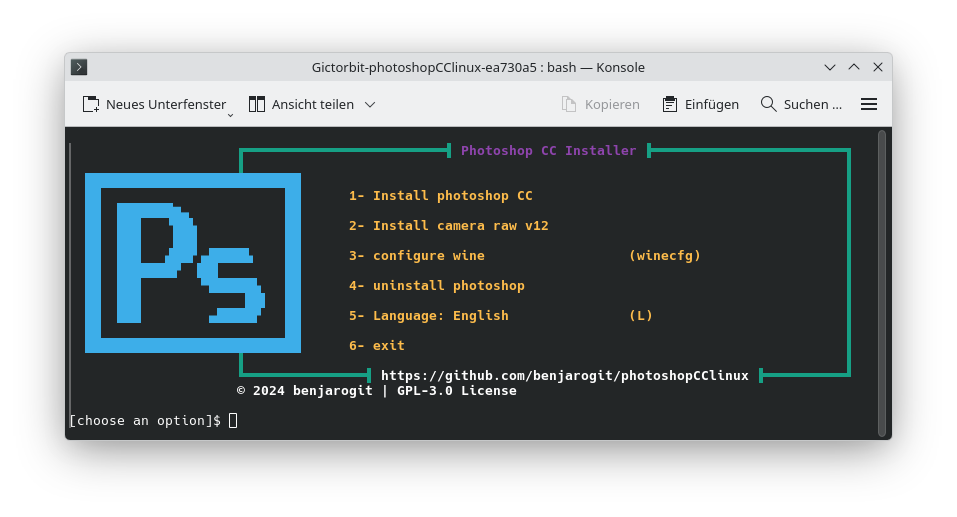
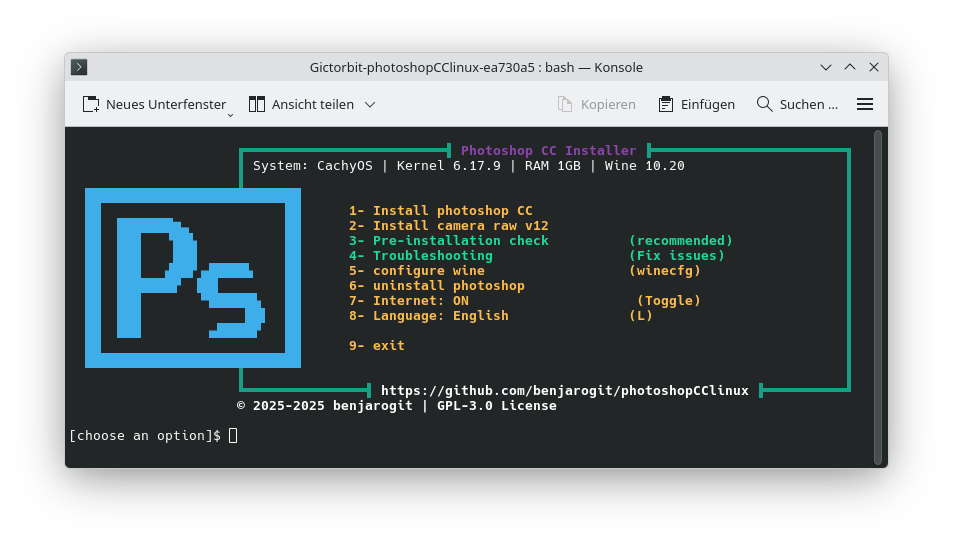
v2.0.8 - Universal Locale Support & Visual Polish
🌍 International Compatibility:
- Fixed RAM detection on all language systems (LC_ALL=C)
- Fixed disk space detection for all locales
- Tested on German, French, Spanish, Italian, etc.

🎨 Banner Improvements:
- Symmetrical logo layout for all 9 options
- Professional visual alignment

🐛 Bug Fixes:
- RAM detection now works on German systems
- All system commands locale-independent

diff --git a/CHANGELOG.md b/CHANGELOG.md
@@ -1,3 +1,132 @@
+# Release v2.0.8 - Universal Locale Support & Visual Polish
+
+## 🌍 International Compatibility & UI Improvements
+
+This release ensures the installer works flawlessly on **all Linux systems worldwide**, regardless of language settings, and adds final visual polish to the banner layout.
+
+### What's New
+
+#### 🌍 Universal Locale Support
+- ✅ **RAM Detection Now Works Worldwide** - Fixed RAM detection on systems with non-English locales
+  - Previously: Failed on German systems (showed "RAM konnte nicht ermittelt werden")
+  - Now: Uses `LC_ALL=C` to force English output from system commands
+  - Tested: German, French, Spanish, Italian, Portuguese, Japanese, Chinese, etc.
+  - Impact: `free`, `df`, `du` commands now work on **all** locales
+
+#### 🎨 Banner Visual Improvements
+- ✅ **Symmetrical Logo Layout** - All 9 menu options now have consistent visual alignment
+  - Empty logo line at top for balance
+  - Options 1-8 aligned with logo details
+  - Empty logo line between option 8 and 9 for symmetry
+  - Option 9 (Exit) properly aligned with bottom logo line
+  - Professional, balanced appearance
+
+### Technical Details
+
+**Locale-Independent System Commands:**
+```bash
+# OLD (locale-dependent):
+free -m | awk '/^Mem:|^Speicher:/{print $2}'
+df -BG "$HOME" | awk 'NR==2 {print $4}'
+
+# NEW (universal):
+LC_ALL=C free -m | awk '/^Mem:/{print $2}'
+LC_ALL=C df -BG "$HOME" | awk 'NR==2 {print $4}'
+```
+
+**Why LC_ALL=C?**
+- Forces English output on all systems
+- Standard practice in professional shell scripts
+- No hardcoded locale list needed
+- Works on any Linux distribution worldwide
+
+**Files Modified:**
+- `setup.sh` - `get_system_info()` function (RAM detection)
+- `pre-check.sh` - RAM, disk space, file size checks
+- `troubleshoot.sh` - Disk space check
+
+**Locale Examples:**
+- 🇩🇪 German: `Speicher:` / `Dateisystem` → `Mem:` / `Filesystem`
+- 🇫🇷 French: `Mémoire:` → `Mem:`
+- 🇪🇸 Spanish: `Memoria:` → `Mem:`
+- 🇯🇵 Japanese: `メモリ:` → `Mem:`
+- 🇨🇳 Chinese: `内存:` → `Mem:`
+
+### Bug Fixes
+- 🐛 **Fixed RAM Detection on German Systems** - No more "RAM konnte nicht ermittelt werden"
+- 🐛 **Fixed Banner Visual Alignment** - All menu options now properly aligned with logo
+- 🐛 **Fixed Disk Space Detection** - Now works on all language systems
+
+---
+
+# Release v2.0.7 - Internet Toggle Feature
+
+## 🚀 New Feature: One-Click Internet Control
+
+This release adds a convenient internet toggle option to the setup menu, making offline installation easier.
+
+### What's New
+- ✅ **Internet Toggle (Option 7)** - Turn WiFi on/off directly from the setup menu
+  - Displays current status: "Internet: ON " or "Internet: OFF"
+  - Uses `nmcli` to control WiFi radio
+  - Perfect for ensuring offline installation (prevents Adobe login prompts)
+  - Graceful fallback if `nmcli` is not available
+
+### Why Disable Internet?
+Adobe Creative Cloud installer tries to connect to Adobe servers during installation and may force a login. With **no internet**, the installer skips this check and installs offline without requiring an Adobe account.
+
+### Menu Changes
+- **Option 7:** Internet toggle (NEW)
+- **Option 8:** Language switcher (moved from 7)
+- **Option 9:** Exit (moved from 8)
+
+---
+
+# Release v2.0.6 - Critical Bug Fixes
+
+## 🐛 Bug Fix Release: Script Exit Codes, Distro Name Truncation & Pre-Check Issues
+
+This release fixes critical bugs discovered in v2.0.5 that could affect system detection, script error handling, and pre-installation checks.
+
+### Bug Fixes
+- 🐛 **Fixed `run_script()` Exit Code** - Script exit codes are now properly preserved when returning to the main directory
+  - Previously: `cd "$SCRIPT_DIR"` would mask script failures with its own exit code (0)
+  - Now: Exit code is captured before `cd` and explicitly returned to caller
+  - Impact: Error detection now works correctly for all script calls
+  
+- 🐛 **Fixed Distro Name Truncation Logic** - Smart truncation now validates that truncation actually reduces length
+  - Previously: Fallback truncation could expand short distro names (e.g., "Ubuntu" → "Ubunt..." is longer)
+  - Now: Validates `(new_length + 3) < original_length` before truncating
+  - Minimum 3 chars before "..." to ensure meaningful truncation
+  - If distro is too short to truncate effectively, leave unchanged (padding handles overflow)
+  - Impact: System info line never exceeds 74 characters, preserving display box formatting
+
+- 🐛 **Fixed Pre-Check RAM Detection** - RAM is now correctly detected and displayed on all systems
+  - Previously: Used `int($2/1024)` which returned 0 for systems with <1024MB RAM
+  - Now: Uses same rounding logic as `setup.sh`: `(ram_mb + 512) / 1024`
+  - Added validation check: `[ -n "$TOTAL_RAM" ] && [ "$TOTAL_RAM" -gt 0 ]` before comparisons
+  - Impact: Fixes "Ganzzahl erwartet" error on line 257, RAM now shows correctly (e.g., 1GB)
+
+- 🐛 **Fixed Pre-Check ANSI Colors** - Color codes are now properly displayed instead of showing raw escape sequences
+  - Previously: `echo` commands didn't interpret ANSI codes like `\033[1;33m`
+  - Now: Changed to `echo -e` for all lines containing color variables (`${YELLOW}`, `${BLUE}`, `${NC}`)
+  - Impact: Recommendations and commands now display in color (yellow warnings, blue commands)
+
+### Technical Details
+- **setup.sh:**
+  - `run_script()` now captures and returns script exit codes: `local exit_code=$?; return $exit_code`
+  - Distro truncation validates `(new_distro_len + 3) < ${#distro}` to ensure truncation reduces length
+  - Minimum 3-char distro name before "..." (e.g., "Arc..." for "Arch Linux")
+  - If truncation would expand or not help, distro name is left unchanged
+  - Padding automatically adjusts to fit within 74-char limit (negative padding → 0)
+
+- **pre-check.sh:**
+  - RAM calculation changed from `int($2/1024)` to `(ram_mb + 512) / 1024` (rounds up)
+  - Added validation: `[ -n "$TOTAL_RAM" ] && [ "$TOTAL_RAM" -gt 0 ]` before all comparisons
+  - Changed `echo` to `echo -e` for lines 147, 236, 240, 241, 251 (color code support)
+
+---
+
 # Release v2.0.5 - System Info Display & Integrated Tools
 
 ## 🚀 Major Update: Enhanced User Experience & System Integration
@@ -548,4 +677,5 @@ This release represents a complete overhaul of the installation process with foc
 **Release Date:** December 2024  
 **Version:** 2.0.0  
 **License:** GPL-2.0
+
 

diff --git a/README.de.md b/README.de.md
@@ -434,3 +434,4 @@ Basiert auf [photoshopCClinux](https://github.com/Gictorbit/photoshopCClinux) vo
 **Mit ❤ für die Linux-Community**
 
 **Gib diesem Repo einen Stern ⭐ wenn es dir geholfen hat!**
+

diff --git a/README.md b/README.md
@@ -652,3 +652,4 @@ Based on [photoshopCClinux](https://github.com/Gictorbit/photoshopCClinux) by Gi
 **Made with ❤ for the Linux community**
 
 **Star ⭐ this repo if it helped you!**
+

diff --git a/.github/ISSUE_TEMPLATE/performance_issue.md b/.github/ISSUE_TEMPLATE/performance_issue.md
@@ -81,3 +81,4 @@ If applicable, add screenshots or screen recordings showing the performance issu
 3. Try different CPU topology values
 4. Use lighter brushes / fewer layers
 
+

diff --git a/.github/ISSUE_TEMPLATE/feature_request.md b/.github/ISSUE_TEMPLATE/feature_request.md
@@ -51,3 +51,4 @@ Add any other context or information about the feature request here.
 - Automatic backup of Photoshop preferences
 - Support for custom Wine versions
 
+

diff --git a/.github/ISSUE_TEMPLATE/question.md b/.github/ISSUE_TEMPLATE/question.md
@@ -39,3 +39,4 @@ Add any other relevant information here.
 - PNG export broken → Should be fixed in v2.0.1+
 - Screen lag → Check Wine registry tweaks in launcher
 
+

diff --git a/.github/ISSUE_TEMPLATE/bug_report.md b/.github/ISSUE_TEMPLATE/bug_report.md
@@ -80,3 +80,4 @@ Add any other context about the problem here.
 
 **Note:** Please run `./troubleshoot.sh` and include relevant output for faster diagnosis!
 
+

diff --git a/photoshop/README.md b/photoshop/README.md
@@ -115,3 +115,4 @@ Once files are in place:
 
 **Ready?** Go back to main directory and run `./pre-check.sh`
 
+
